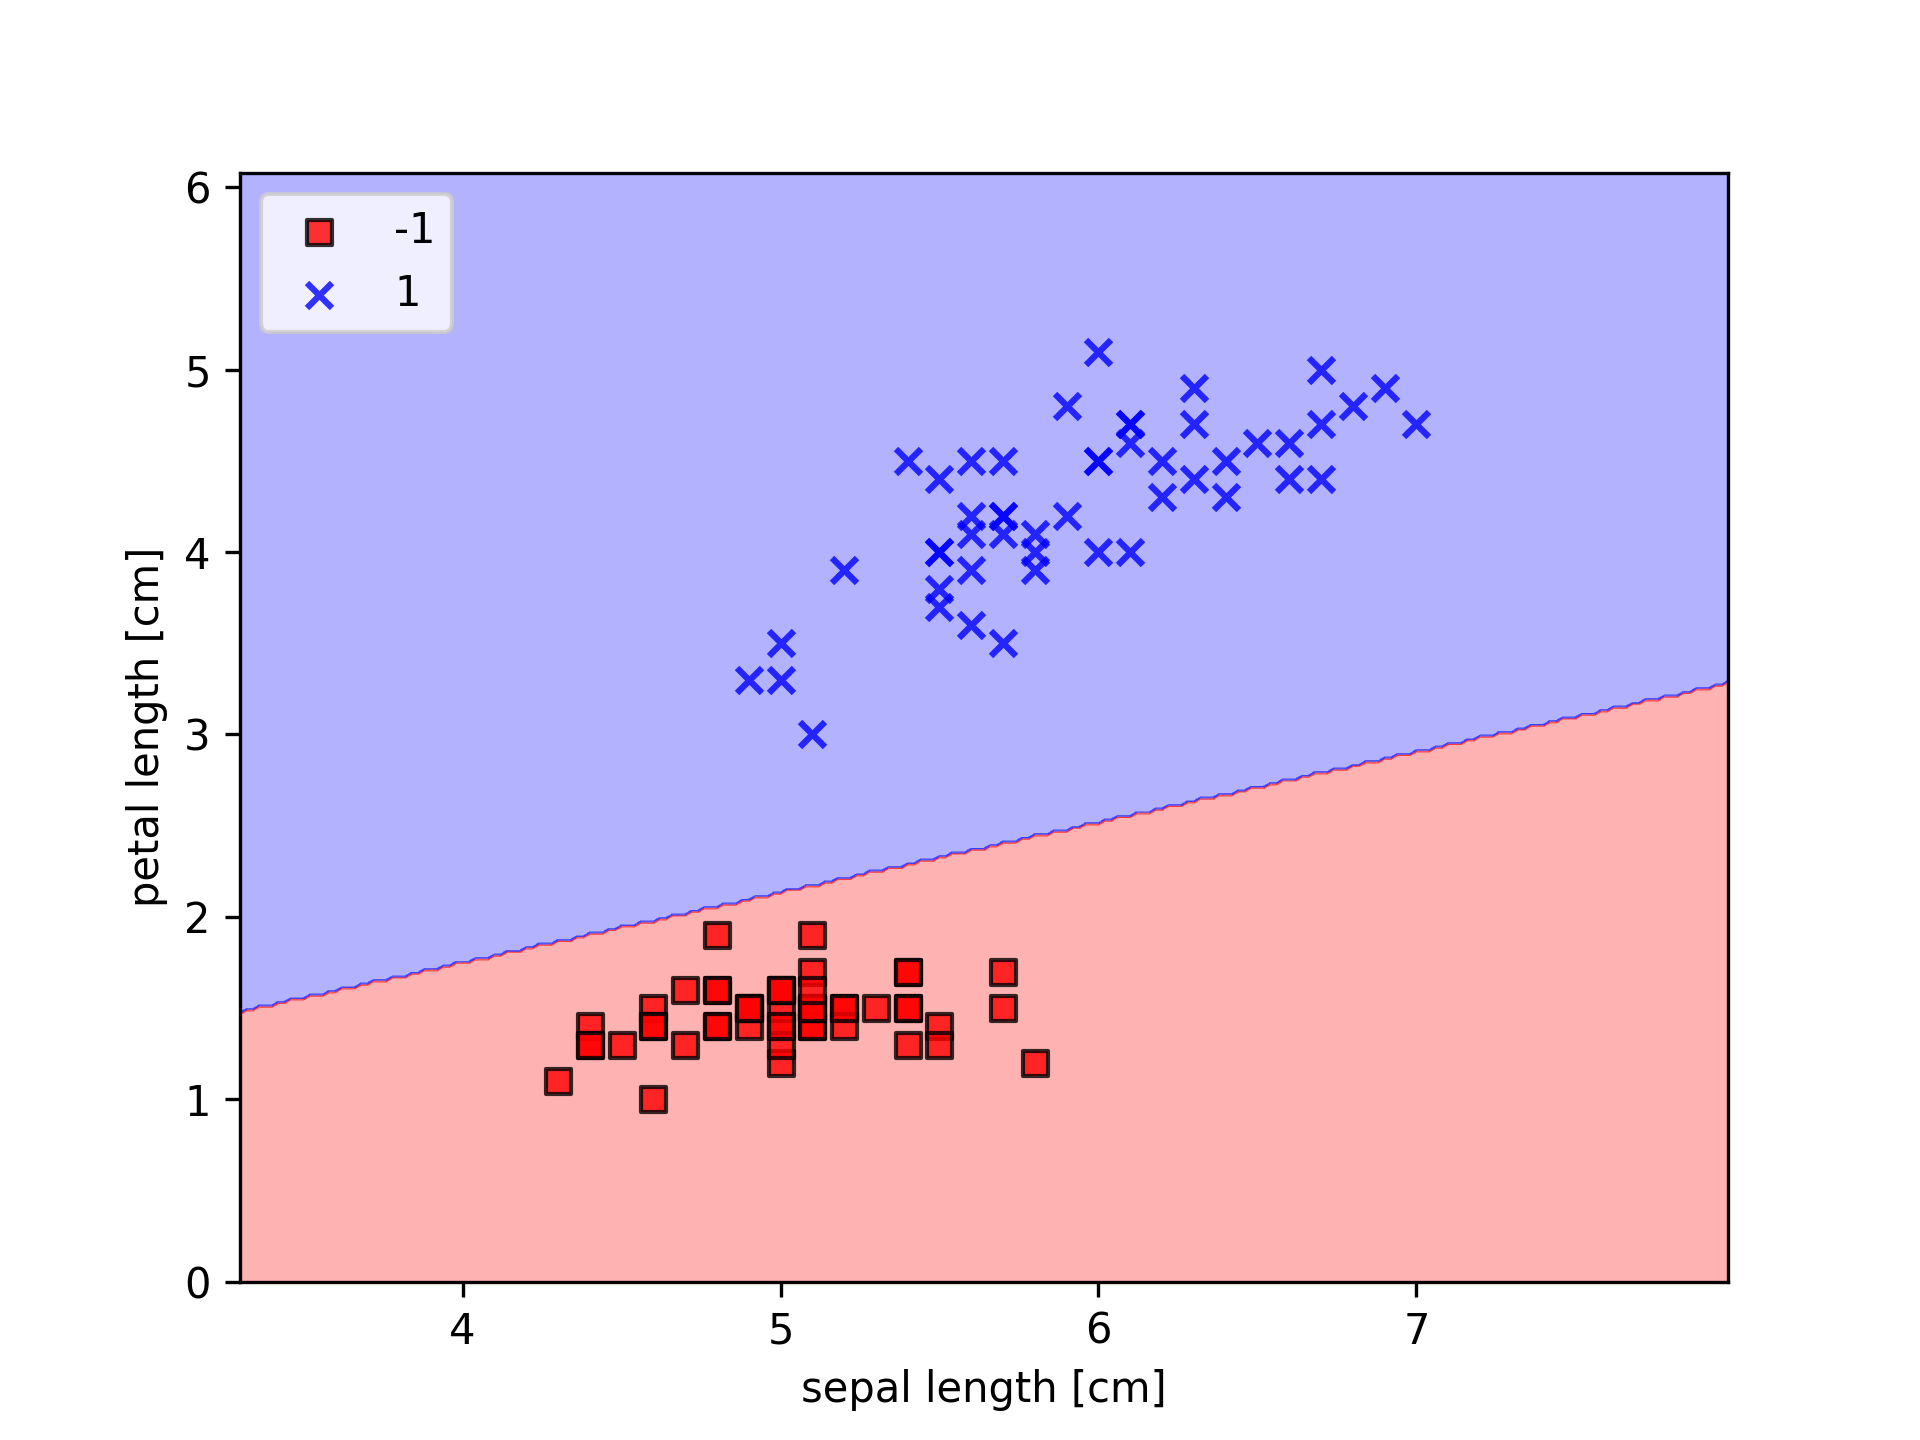
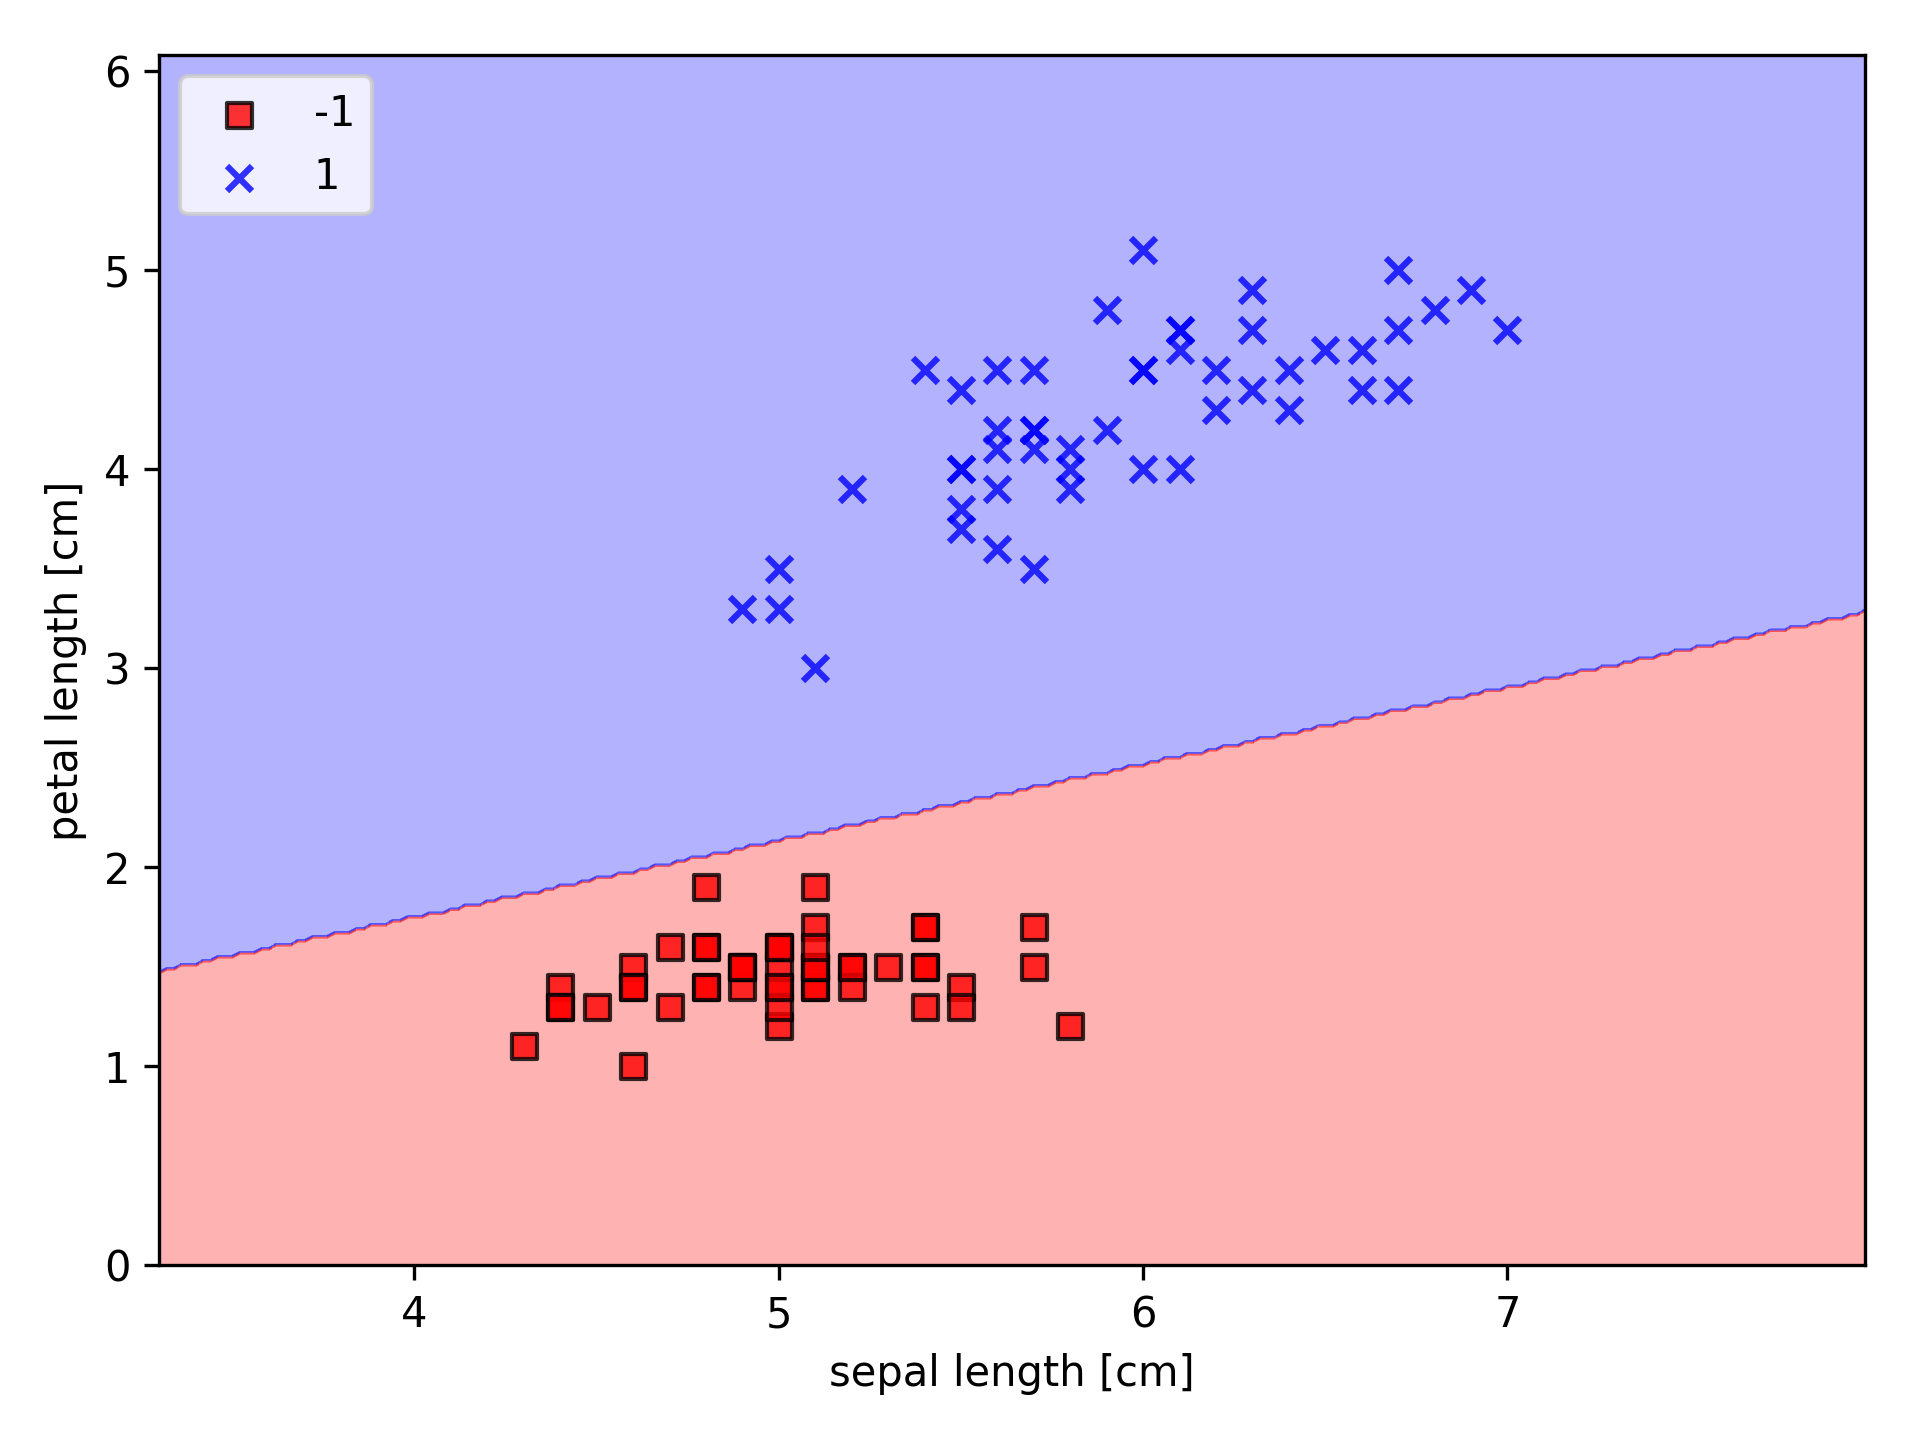
Add Adaline with scaled features

diff --git a/tests/adaline/adaline_test.py b/tests/adaline/adaline_test.py
@@ -1,0 +1,130 @@
+import unittest
+
+import numpy as np
+
+from ml.adaline.adaline import AdalineGD
+from ml.common.data.data_reader import IrisDataReader
+from ml.common.plot.plotter import Plotter
+
+
+class AdalineTest(unittest.TestCase):
+
+    def set_up(self):
+        return
+
+    def tear_down(self):
+        return
+
+    def test_adaline(self):
+        # load subset of Iris data
+        iris_data_reader = IrisDataReader('../../resources/iris.data')
+        x, y = iris_data_reader.get_data()
+
+        # plotter data and save it to file
+        Plotter.plot_data_set(x, '../../resources/images/Adaline-Training-Set.png')
+
+        # train the first  with bigger learning ratio
+        adaline1 = AdalineGD(learning_rate=0.1, num_epochs=30)
+        adaline1.train(x, y)
+
+        # train the second adaline model with smaller learning ration
+        adaline2 = AdalineGD(learning_rate=0.0001, num_epochs=30)
+        adaline2.train(x, y)
+
+        # plot multiple learning curves for both adaline trained models
+        curves = [
+            {
+                'cost_length': len(adaline1.cost),
+                'cost': np.log10(adaline1.cost),
+                'marker': 'o',
+                'x_label': 'Epochs',
+                'y_label': 'log(Sum-squared-error)',
+                'title': 'Adaline - Learning rate 0.1'
+            },
+            {
+                'cost_length': len(adaline2.cost),
+                'cost': np.log10(adaline2.cost),
+                'marker': 'o',
+                'x_label': 'Epochs',
+                'y_label': 'log(Sum-squared-error)',
+                'title': 'Adaline - Learning rate 0.0001'
+            }
+        ]
+        Plotter.plot_multiple_learning_curves(curves,
+                                              image_file_path='../../resources/images/Adaline-Learning-Curves.png')
+
+        # plot decision boundary for divergent model (adaline 1)
+        Plotter.plot_decision_boundary(x, y, classifier=adaline1, diagram_options={'x_label': 'sepal length [cm]',
+                                                                                   'y_label': 'petal length [cm]',
+                                                                                   'legend': 'upper left'},
+                                       image_file_path='../../resources/images/Adaline-Decision-Boundary-Divergenr.png')
+
+        # plot decision boundary for convergent model (adaline 2)
+        Plotter.plot_decision_boundary(x, y, classifier=adaline2, diagram_options={'x_label': 'sepal length [cm]',
+                                                                                   'y_label': 'petal length [cm]',
+                                                                                   'legend': 'upper left'},
+                                       image_file_path='../../resources/images/Adaline-Decision-Boundary-Convergent.png')
+
+    def test_adaline_with_standardized_features(self):
+        # load subset of Iris data
+        iris_data_reader = IrisDataReader('../../resources/iris.data')
+        x, y = iris_data_reader.get_data()
+
+        # standardize features
+        x_std: np.matrix = np.copy(x)
+        x_std[:, 0] = (x[:, 0] - x[:, 0].mean()) / x[:, 0].std()
+        x_std[:, 1] = (x[:, 1] - x[:, 1].mean()) / x[:, 1].std()
+
+        # plotter data and save it to file
+        Plotter.plot_data_set(x, '../../resources/images/Adaline-Training-Set.png')
+        Plotter.plot_data_set(x_std, '../../resources/images/Adaline-Standardized-Training-Set.png')
+
+        # train adaline on standardized features with a small number of epochs
+        adaline = AdalineGD(learning_rate=0.0001, num_epochs=10)
+        adaline.train(x_std, y)
+
+        # plot learning curve
+        curve = {
+            'cost_length': len(adaline.cost),
+            'cost': np.log10(adaline.cost),
+            'marker': 'o',
+            'x_label': 'Epochs',
+            'y_label': 'log(Sum-squared-error)',
+            'title': 'Adaline - Learning rate 0.01'
+        }
+        Plotter.plot_learning_curve(curve, '../../resources/images/Adaline-Learning-Curve-Standardized-Features.png')
+
+        # plot decision boundary
+        Plotter.plot_decision_boundary(x_std, y, classifier=adaline, diagram_options={'x_label': 'sepal length [cm]',
+                                                                                      'y_label': 'petal length [cm]',
+                                                                                      'legend': 'upper left'},
+                                       image_file_path='../../resources/images/Adaline-Decision-Boundary-Standardized'
+                                                       '-Features.png')
+
+
+#
+
+
+#         ada = AdalineGD(n_iter=15, eta=0.01)
+# ada.fit(X_std, y)
+#
+# plot_decision_regions(X_std, y, classifier=ada)
+# plt.title('Adaline - Gradient Descent')
+# plt.xlabel('sepal length [standardized]')
+# plt.ylabel('petal length [standardized]')
+# plt.legend(loc='upper left')
+# plt.tight_layout()
+# # plt.savefig('images/02_14_1.png', dpi=300)
+# plt.show()
+#
+# plt.plot(range(1, len(ada.cost_) + 1), ada.cost_, marker='o')
+# plt.xlabel('Epochs')
+# plt.ylabel('Sum-squared-error')
+#
+#
+# # plt.savefig('images/02_14_2.png', dpi=300)
+# plt.show()
+
+
+if __name__ == '__main__':
+    unittest.main()

diff --git a/ml/common/plot/plotter.py b/ml/common/plot/plotter.py
@@ -13,64 +13,80 @@ class Plotter(object):
         """
 
     @staticmethod
-    def plot_data_set(X: np.matrix, image_file_path: str = None, resolution: int = 300) -> None:
-        plt.scatter(X[:50, 0], X[:50, 1], color='red', marker='o', label='setosa')
-        plt.scatter(X[50:100, 0], X[50:100, 1], color='blue', marker='x', label='versicolor')
+    def plot_data_set(x: np.matrix, image_file_path: str = None, resolution: int = 300) -> None:
+        plt.scatter(x[:50, 0], x[:50, 1], color='red', marker='o', label='setosa')
+        plt.scatter(x[50:100, 0], x[50:100, 1], color='blue', marker='x', label='versicolor')
 
         plt.xlabel('sepal length [cm]')
         plt.ylabel('petal length [cm]')
         plt.legend(loc='upper left')
 
+        plt.tight_layout()
+
         plt.savefig(image_file_path, dpi=resolution)
+
         plt.show()
 
     @staticmethod
-    def plot_learning_curve(errors: [int] = None, image_file_path: str = None, resolution: int = 300):
-        plt.plot(range(1, len(errors) + 1), errors, marker='o')
-        plt.xlabel('Epochs')
-        plt.ylabel('Number of updates')
+    def plot_learning_curve(curve: {} = None, image_file_path: str = None, resolution: int = 300):
+        plt.plot(range(1, curve['cost_length'] + 1), curve['cost'], marker=curve['marker'])
+        plt.xlabel(curve['x_label'])
+        plt.ylabel(curve['y_label'])
+        plt.title(curve['title'])
+
+        plt.tight_layout()
 
         plt.savefig(image_file_path, dpi=resolution)
+
         plt.show()
 
     @staticmethod
-    def plot_multiple_learning_curves(curves: [{}] = None, figure_size : tuple = (10, 4), image_file_path: str = None,
+    def plot_multiple_learning_curves(curves: [{}] = None, figure_size: tuple = (10, 4), image_file_path: str = None,
                                       resolution: int = 300):
         fig, ax = plt.subplots(nrows=1, ncols=len(curves), figsize=figure_size)
         i: int = 0
         for curve in curves:
-            ax[i].plot(range(1, curve['cost_length'] + 1), curve['cost_logarithm'], marker=curve['marker'])
+            ax[i].plot(range(1, curve['cost_length'] + 1), curve['cost'], marker=curve['marker'])
             ax[i].set_xlabel(curve['x_label'])
             ax[i].set_ylabel(curve['y_label'])
             ax[i].set_title(curve['title'])
             i += 1
 
+        plt.tight_layout()
+
         plt.savefig(image_file_path, dpi=resolution)
+
         plt.show()
 
     @staticmethod
-    def plot_decision_boundary(X, Y, grid_resolution: float = 0.02, classifier: Classifier = None, x_label: str = None,
-                               y_label: str = None, legend: str = None, image_file_path: str = None, resolution: int = 300):
+    def plot_decision_boundary(x: np.matrix, y: np.matrix, classifier: Classifier = None, diagram_options: dict = None,
+                               image_file_path: object = None, resolution: object = 300) -> None:
+        grid_resolution: float = diagram_options['grid_resolution'] if diagram_options.get('grid_resolution') is not None \
+            else 0.02
+        x_label: str = diagram_options['x_label']
+        y_label: str = diagram_options['y_label']
+        legend: str = diagram_options['legend']
+
         # setup marker generator and color map
         markers = ('s', 'x', 'o', '^', 'v')
         colors = ('red', 'blue', 'lightgreen', 'gray', 'cyan')
-        cmap = ListedColormap(colors[:len(np.unique(Y))])
+        color_map = ListedColormap(colors[:len(np.unique(y))])
 
         # plot the decision surface
-        x1_min, x1_max = X[:, 0].min() - 1, X[:, 0].max() + 1
-        x2_min, x2_max = X[:, 1].min() - 1, X[:, 1].max() + 1
+        x1_min, x1_max = x[:, 0].min() - 1, x[:, 0].max() + 1
+        x2_min, x2_max = x[:, 1].min() - 1, x[:, 1].max() + 1
         xx1, xx2 = np.meshgrid(np.arange(x1_min, x1_max, grid_resolution), np.arange(x2_min, x2_max, grid_resolution))
-        Z = classifier.predict(np.array([xx1.ravel(), xx2.ravel()]).T)
-        Z = Z.reshape(xx1.shape)
-        plt.contourf(xx1, xx2, Z, alpha=0.3, cmap=cmap)
+        z = classifier.predict(np.array([xx1.ravel(), xx2.ravel()]).T)
+        z = z.reshape(xx1.shape)
+        plt.contourf(xx1, xx2, z, alpha=0.3, cmap=color_map)
         plt.xlim(xx1.min(), xx1.max())
         plt.ylim(xx2.min(), xx2.max())
 
         # plot class samples
-        for idx, cl in enumerate(np.unique(Y)):
+        for idx, cl in enumerate(np.unique(y)):
             plt.scatter(
-                x=X[Y == cl, 0],
-                y=X[Y == cl, 1],
+                x=x[y == cl, 0],
+                y=x[y == cl, 1],
                 alpha=0.8,
                 c=colors[idx],
                 marker=markers[idx],
@@ -82,5 +98,8 @@ class Plotter(object):
         plt.ylabel(y_label)
         plt.legend(loc=legend)
 
+        plt.tight_layout()
+
         plt.savefig(image_file_path, dpi=resolution)
+
         plt.show()

diff --git a/tests/perceptron/perceptron_test.py b/tests/perceptron/perceptron_test.py
@@ -1,0 +1,52 @@
+import unittest
+
+from ml.common.data.data_reader import IrisDataReader
+from ml.common.plot.plotter import Plotter
+from ml.perceptron.perceptron import Perceptron
+
+
+class PerceptronTest(unittest.TestCase):
+
+    def set_up(self):
+        return
+
+    def tear_down(self):
+        return
+
+    def test_perceptron(self):
+        # load subset of Iris data
+        iris_data_reader = IrisDataReader('../../resources/iris.data')
+        X, Y = iris_data_reader.get_data()
+
+        # plotter data and save it to file
+        Plotter.plot_data_set(X, '../../resources/images/Perceptron-Training-Set.png')
+
+        # train the perceptron model
+        perceptron = Perceptron(learning_rate=0.1, num_epochs=10)
+        perceptron.train(X, Y)
+
+        # plot learning curve
+        curve = {
+            'cost_length': len(perceptron.cost),
+            'cost': perceptron.cost,
+            'marker': 'o',
+            'x_label': 'Epochs',
+            'y_label': 'Number of updates',
+            'title': 'Perceptron - Learning rate 0.1'
+        }
+        Plotter.plot_learning_curve(curve, '../../resources/images/Perceptron-Learning-Curve.png')
+
+        # plot decision boundary
+
+        diagram_options = {
+            'x_label': 'sepal length [cm]',
+            'y_label': 'petal length [cm]',
+            'legend': 'upper left'
+        }
+
+        Plotter.plot_decision_boundary(X, Y, classifier=perceptron, diagram_options=diagram_options,
+                                       image_file_path='../../resources/images/Perceptron-Decision-Boundary.png')
+
+
+if __name__ == '__main__':
+    unittest.main()

diff --git a/ml/perceptron/perceptron.py b/ml/perceptron/perceptron.py
@@ -35,7 +35,7 @@ class Perceptron(Classifier):
         self.learning_rate = learning_rate
         self.num_epochs = num_epochs
         self.weight_init_seed = weight_init_seed
-        self.errors = []
+        self.cost = []
         self.weights = None
 
     def activation(self, X):
@@ -58,13 +58,16 @@ class Perceptron(Classifier):
 
         for i in range(self.num_epochs):
             print('Training epoch ' + str(i + 1))
+
             errors: int = 0
             for xi, yi in zip(X, Y):
                 update = self.learning_rate * (yi - self.predict(xi))
+
                 self.weights[1:] += update * xi
                 self.weights[0] += update
+
                 errors += int(update != 0.0)
-            self.errors.append(errors)
+            self.cost.append(errors)
 
         return self
 
